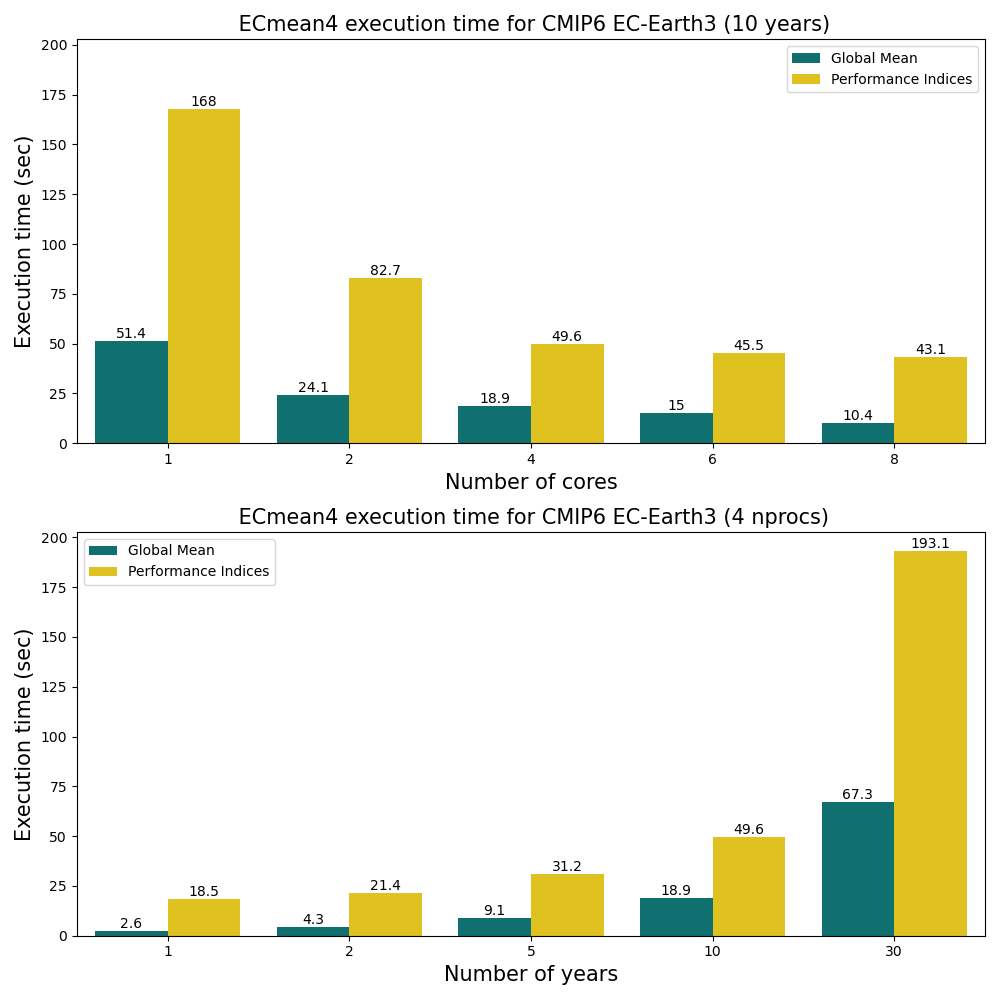
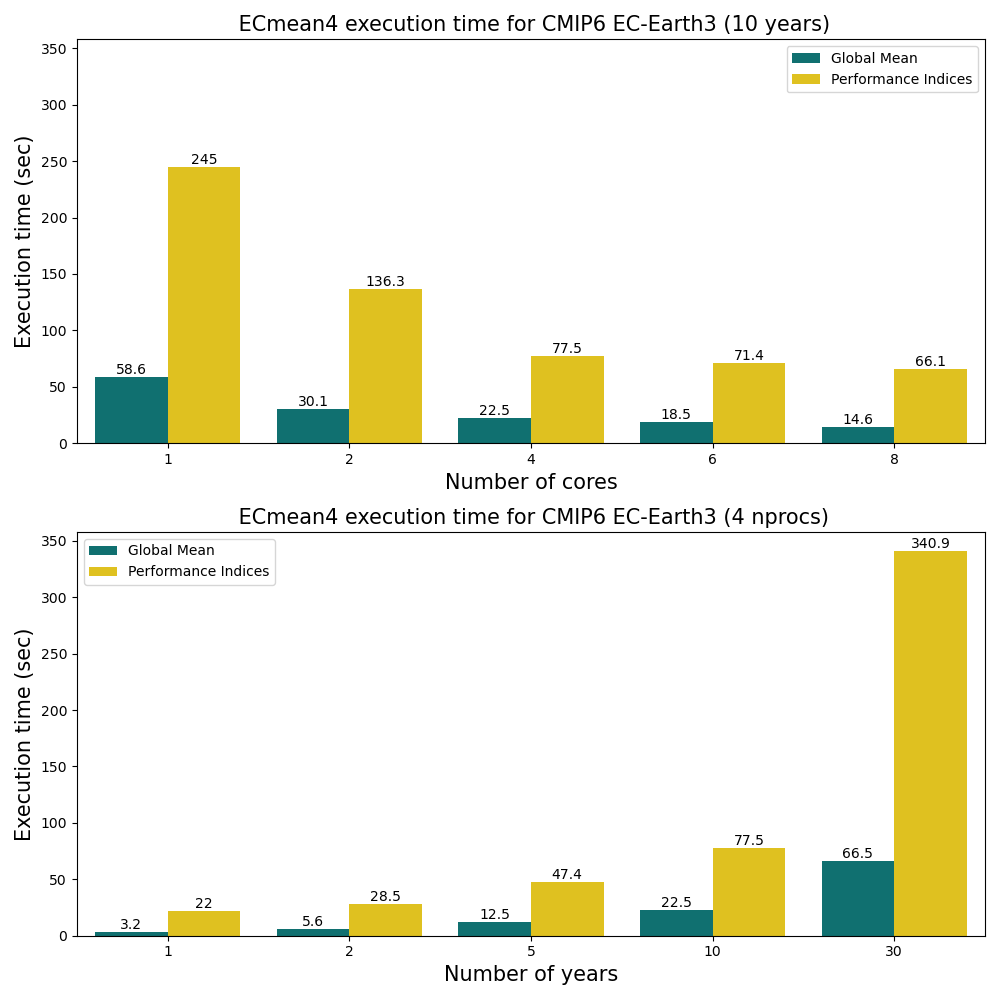
update readme, env, benchmarking - slow down for PI.

diff --git a/ecmean.py b/ecmean.py
@@ -10,7 +10,6 @@ import operator
 import sys
 from pathlib import Path
 from glob import glob
-import itertools
 import numpy as np
 import xarray as xr
 import xesmf as xe
@@ -115,42 +114,42 @@ def is_number(s):
 #     k, m = divmod(len(iterable), num)
 #     return (iterable[i*k+min(i, m):(i+1)*k+min(i+1, m)] for i in range(num))
 
-def runtime_weights(varlist) : 
+def runtime_weights(varlist):
     """Define the weights to estimate the best repartition of the cores
-    This is done a-priori, considering that 1) compound variables are more difficult to compute 
+    This is done a-priori, considering that 1) compound variables are more difficult to compute
     2) 3d variables requires more evaluation"""
 
     w = {}
-    for k in varlist : 
-        if k in ['ua', 'ta', 'va', 'hus'] :
+    for k in varlist:
+        if k in ['ua', 'ta', 'va', 'hus']:
             t = 8
-        elif k in ['pme', 'net_sfc_nosn', 'net_sfc', 'toamsfc_nosn', 'toamsfc', 
-            'pr_oce', 'pme_oce', 'pr_land', 'pme_land', 'net_toa'] :
+        elif k in ['pme', 'net_sfc_nosn', 'net_sfc', 'toamsfc_nosn', 'toamsfc',
+                   'pr_oce', 'pme_oce', 'pr_land', 'pme_land', 'net_toa']:
             t = 3
-        else :
+        else:
             t = 1
-        w[k] = t 
+        w[k] = t
 
     return w
 
 
-def weight_split(a, n) : 
+def weight_split(a, n):
     """use the weights by runtime_weights to provide a number of n chunks based on the
     minimum possible value of each chunk computing time. Then, provide the list of variables
     to be used in the multiprocessing routine"""
 
-    ws = sorted(runtime_weights(a).items(), key=lambda x:x[1], reverse=True)
+    ws = sorted(runtime_weights(a).items(), key=lambda x: x[1], reverse=True)
     ordered = dict(ws)
 
-    elists = [ [0] for _ in range(n) ]
-    olists = [ [] for _ in range(n) ]
-    
-    count=0
-    for f in ordered.keys() : 
+    elists = [[0] for _ in range(n)]
+    olists = [[] for _ in range(n)]
+
+    count = 0
+    for f in ordered.keys():
         elists[count].append(ordered[f])
         olists[count].append(f)
-        count=elists.index(min(elists)) 
-        
+        count = elists.index(min(elists))
+
     return olists
 
 
@@ -216,7 +215,7 @@ def var_is_there(flist, var, reference):
             varunit = reference[var].get('units')
             if not varunit:
                 logging.info('%s is a derived var, assuming unit '
-                                'as the first of its term', var)
+                             'as the first of its term', var)
                 varunit = units_avail.get(var_req[0])
         else:
             var_req = [var]
@@ -231,7 +230,7 @@ def var_is_there(flist, var, reference):
                                 "available in the model output. Ignoring it.", var, x)
     else:
         varunit = None
-        #print(f'Not available: {var} File: {flist}')
+        # print(f'Not available: {var} File: {flist}')
         logging.warning("No data found for variable %s. Ignoring it.", var)
 
     return isavail, varunit
@@ -422,7 +421,7 @@ def _make_atm_masks(component, maskatmfile, remap_dictionary=None):
     # prepare ATM LSM: this needs to be improved, since it is clearly model
     # dependent
     logging.debug('maskatmfile is' + maskatmfile)
-    if not maskatmfile: 
+    if not maskatmfile:
         sys.exit("ERROR: maskatmfile cannot be found")
 
     if component == 'oifs':
@@ -481,9 +480,9 @@ def mask_field(xfield, var, mask_type, mask):
     if mask_type == 'global':
         out = xfield
     elif mask_type == 'north':
-        out = xfield.where(xfield['lat']>0) 
+        out = xfield.where(xfield['lat'] > 0)
     elif mask_type == 'south':
-        out = xfield.where(xfield['lat']<0) 
+        out = xfield.where(xfield['lat'] < 0)
     else:
         # check that we are receiving a dataset and not a datarray
         if isinstance(xfield, xr.DataArray):
@@ -546,7 +545,7 @@ def _make_atm_areas(component, atmareafile):
     for parallel computation."""
 
     logging.debug('Atmareafile is ' + atmareafile)
-    if not atmareafile : 
+    if not atmareafile:
         sys.exit("ERROR: Atmareafile cannot be found")
 
     if component == 'oifs':
@@ -569,7 +568,7 @@ def _make_oce_areas(component, oceareafile):
     """
 
     logging.debug('Oceareafile is ' + oceareafile)
-    if not oceareafile : 
+    if not oceareafile:
         logging.warning("Ocereafile cannot be found, assuming this is an AMIP run")
 
     if oceareafile:
@@ -924,7 +923,7 @@ def _make_atm_interp_weights(component, atmareafile, target_grid):
     """Create atmospheric interpolator"""
 
     logging.debug('Atmareafile is ' + atmareafile)
-    if not atmareafile : 
+    if not atmareafile:
         sys.exit("ERROR: Atmareafile cannot be found")
 
     if component == 'oifs':
@@ -983,7 +982,7 @@ def _make_oce_interp_weights(component, oceareafile, target_grid):
     """Create oceanic interpolator weights"""
 
     logging.debug('Oceareafile is ' + oceareafile)
-    if not oceareafile : 
+    if not oceareafile:
         sys.exit("ERROR: Oceareafile cannot be found")
 
     if component == 'nemo':
@@ -1063,16 +1062,16 @@ def xr_preproc(ds):
         ds = ds.rename({"plevel": "plev"})
 
     # fix for NEMO eORCA grid (nav_lon, nav_lat)
-    for h in ['lon', 'lat'] : 
-        for f in ['', 'grid_T'] :
-            g = 'nav_'+ h + '_' + f 
+    for h in ['lon', 'lat']:
+        for f in ['', 'grid_T']:
+            g = 'nav_' + h + '_' + f
             if g in list(ds.coords):
                 ds = ds.rename({g: h})
 
     # fix for NEMO eORCA grid (x_grid_T, etc.)
-    for h in ['x', 'y'] :
-        for f in ['grid_T'] :
-            g = h + '_'+ f 
+    for h in ['x', 'y']:
+        for f in ['grid_T']:
+            g = h + '_' + f
             if g in list(ds.dims):
                 ds = ds.rename({g: h})
 
@@ -1285,3 +1284,4 @@ def heatmap_comparison(relative_table, diag, filemap):
     # save and close
     plt.savefig(filemap)
     plt.cla()
+    plt.close()

diff --git a/benchmarking.py b/benchmarking.py
@@ -2,7 +2,7 @@
 # -*- coding: utf-8 -*-
 
 """"
-    Provide benchmarking running on a set of cores and set of years EC-Earth3 (or any other model) 
+    Provide benchmarking running on a set of cores and set of years EC-Earth3 (or any other model)
     data on a specific machine for both performance indices and global mean
     produce a figure to be automatically placed within the documentation and used as benchmark
     in different phases of the ECmean4 project evolution.
@@ -17,17 +17,16 @@ import seaborn as sns
 import matplotlib.pyplot as plt
 
 
-
 expname = 'historical'
 refclim = 'EC23'
-#models = ['EC-Earth3', 'IPSL-CM6A-LR', 'FGOALS-g3', 'TaiESM1', 'CanESM5', 'CNRM-CM6-1',
+# models = ['EC-Earth3', 'IPSL-CM6A-LR', 'FGOALS-g3', 'TaiESM1', 'CanESM5', 'CNRM-CM6-1',
 #              'MIROC6', 'MPI-ESM1-2-HR', 'AWI-CM-1-1-MR']
 models = ['EC-Earth3']
 ensemble = "r1i1p1f1"
 scripts = ['Global Mean', 'Performance Indices']
 
 # number of processors and years on which looop
-nprocs= [1, 2, 4, 6, 8]
+nprocs = [1, 2, 4, 6, 8]
 nyears = [1, 2, 5, 10, 30]
 
 # file for configuration to be used as a reference
@@ -42,43 +41,43 @@ nprocs_fixed = 4
 
 # flag to define if the saved figure will go into the docs:
 # to be done once in a while, or before big merge
-do_definitive = False
+do_definitive = True
 
 # loop on models: so far not used
 for model in models:
 
     # define the dataframe
-    howmuch = pd.DataFrame(columns = ['script', 'time', 'nprocs', 'nyears'])    
+    howmuch = pd.DataFrame(columns=['script', 'time', 'nprocs', 'nyears'])
 
     # loop on the scripts and on the procs
-    for script in scripts : 
-        for nproc in nprocs :
-            if nproc == nprocs_fixed : 
+    for script in scripts:
+        for nproc in nprocs:
+            if nproc == nprocs_fixed:
                 nn = nyears
-            else :
+            else:
                 nn = [nyears_fixed]
 
-            for n in nn : 
-                print('Running ' + script + ' with nprocs =', str(nproc) + 'for nyears = ' + str(n))
+            for n in nn:
+                print('Running ' + script + ' with nprocs =', str(nproc) + ' for nyears = ' + str(n))
                 print(model)
 
                 year1 = 1980
                 year2 = year1 + n - 1
                 # separated calls for model (perhaps a specific config file should be added)
-                if script == 'Performance Indices' :
+                if script == 'Performance Indices':
                     sys.argv = [expname, str(year1), str(year2), '--config', benchconfig,
-                                '--model', model, '-j', str(nproc), '-k', refclim, '-e', ensemble, '-s', '-v', 'warning']
+                                '--model', model, '-j', str(nproc), '-k', refclim, '-e', ensemble, '-v', 'warning']
                     single = timeit.timeit(lambda: pi_main(sys.argv), number=nrepeat)
-                elif script == 'Global Mean' : 
+                elif script == 'Global Mean':
                     sys.argv = [expname, str(year1), str(year2), '--config', benchconfig,
-                                '--model', model, '-j', str(nproc), '-e', ensemble, '-s',  '-v', 'warning']
+                                '--model', model, '-j', str(nproc), '-e', ensemble, '-v', 'warning']
                     single = timeit.timeit(lambda: gm_main(sys.argv), number=nrepeat)
 
                 # concatenate
                 d = pd.DataFrame({'script': [script], 'time': [round(single/nrepeat, 1)], 'nprocs': [nproc], 'nyears': [n]})
                 print(d)
                 howmuch = pd.concat([howmuch, d])
- 
+
 print(howmuch)
 
 # produce the two-panel figure
@@ -87,32 +86,31 @@ palette = ['teal', 'gold']
 
 # first plot: scaling on cores
 how1 = howmuch[howmuch["nyears"] == nyears_fixed]
-chart1 = sns.barplot(data=how1, x='nprocs', y='time', hue='script', palette = palette,  ax=axs[0])
+chart1 = sns.barplot(data=how1, x='nprocs', y='time', hue='script', palette=palette,  ax=axs[0])
 
 axs[0].set_title(f' ECmean4 execution time for CMIP6 {model} ({nyears_fixed} years)', fontsize=15)
 for i in chart1.containers:
     chart1.bar_label(i,)
 axs[0].set_xlabel('Number of cores', fontsize=15)
 axs[0].set_ylabel('Execution time (sec)', fontsize=15)
-h,l = axs[0].get_legend_handles_labels()
-axs[0].legend(h,l)
+hh, ll = axs[0].get_legend_handles_labels()
+axs[0].legend(hh, ll)
 
 # second plot: scaling on years
 how2 = howmuch[howmuch["nprocs"] == nprocs_fixed]
-chart2 = sns.barplot(data=how2, x='nyears', y='time', hue='script', palette = palette, ax=axs[1])
+chart2 = sns.barplot(data=how2, x='nyears', y='time', hue='script', palette=palette, ax=axs[1])
 
 axs[1].set_title(f' ECmean4 execution time for CMIP6 {model} ({nprocs_fixed} nprocs)', fontsize=15)
 for i in chart2.containers:
     chart2.bar_label(i,)
 axs[1].set_xlabel('Number of years', fontsize=15)
 axs[1].set_ylabel('Execution time (sec)', fontsize=15)
-h,l = axs[1].get_legend_handles_labels()
-axs[1].legend(h,l)
+hh, ll = axs[1].get_legend_handles_labels()
+axs[1].legend(hh, ll)
 
-if do_definitive :
+if do_definitive:
     figurepath = '/home/paolo/ECmean4/docs/sphinx/source/_static/benchmark.png'
-else :
+else:
     figurepath = '/home/paolo/work/figures/ECmean4/benchmark.png'
 
 fig.savefig(figurepath)
-

diff --git a/global_mean.py b/global_mean.py
@@ -198,7 +198,7 @@ def gm_main(argv):
         dict.fromkeys(
             var_atm +
             var_table +
-            var_oce + 
+            var_oce +
             var_ice))  # python 3.7+, preserve order
 
     # Can probably be cleaned up further

diff --git a/performance_indices.py b/performance_indices.py
@@ -323,7 +323,7 @@ def pi_main(argv):
 
     # loop on the variables, create the parallel process
     for varlist in weight_split(field_all, diag.numproc):
-        
+
         p = Process(
             target=pi_worker,
             args=(

diff --git a/README.md b/README.md
@@ -1,7 +1,7 @@
 [![Maintenance](https://img.shields.io/badge/Maintained%3F-yes-green.svg)](https://github.com/oloapinivad/ECmean4/graphs/commit-activity)
 [![made-with-python](https://img.shields.io/badge/Made%20with-Python-1f425f.svg)](https://www.python.org/)
 [![Documentation Status](https://readthedocs.org/projects/ecmean4/badge/?version=latest)](https://ecmean4.readthedocs.io/en/latest/?badge=latest)
-[![Conda PyTest](https://github.com/oloapinivad/ECmean4/actions/workflows/condatest.yml/badge.svg)](https://github.com/oloapinivad/ECmean4/actions/workflows/condatest.yml)
+[![Mamba PyTest](https://github.com/oloapinivad/ECmean4/actions/workflows/mambatest.yml/badge.svg)](https://github.com/oloapinivad/ECmean4/actions/workflows/mambatest.yml)
 
 ![ECmean4](docs/ecmean4_smallest.png)
 
